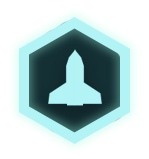
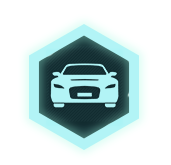
adding vehicle select screen

diff --git a/ts/GameObjects/Interactable/Paralax/UI/VehicleSelect.ts b/ts/GameObjects/Interactable/Paralax/UI/VehicleSelect.ts
@@ -1,0 +1,137 @@
+import 'phaser-ce';
+
+//import Atlases from '../../../../Data/Atlases';
+import ImageButton from './ImageButton';
+import Atlases from '../../../../Data/Atlases';
+import AtlasImages from '../../../../Data/AtlasImages';
+import SaveData from '../../../../BackEnd/SaveData';
+import Constants from '../../../../Data/Constants';
+
+export default class VehicleSelect extends Phaser.Group
+{
+    private background: Phaser.Sprite;
+    private vehicleSelectGroup: Phaser.Group;
+    private closeButton: ImageButton;
+    private headerText: Phaser.BitmapText;
+
+    //text
+    private carText: Phaser.BitmapText;
+    private descriptionText: Phaser.BitmapText;
+
+    //backdrops
+    private middleBackdrop: Phaser.Sprite;
+    private leftBackdrop: Phaser.Sprite;
+    private rightBackdrop: Phaser.Sprite;
+
+    //arrows
+    private leftArrow: ImageButton;
+    private rightArrow: ImageButton;
+
+    //car sprites
+    private selectedCarSprite: Phaser.Sprite;
+    private leftCarSprite: Phaser.Sprite;
+    private rightCarSprite: Phaser.Sprite;
+
+    private carIndex: number = 0;
+
+    constructor(game: Phaser.Game, callback: Function)
+    {
+        super(game);
+
+        this.background = new Phaser.Sprite(game, 0, 0, Atlases.Interface, 'UserInterface_Credits_Background');
+        this.background.anchor.set(.5);
+
+        this.closeButton = new ImageButton(this.game, -228, 475, AtlasImages.Exit_Button, 'UserInterface_Menu_ContinueButton', () => {
+            callback();
+        }, this);
+        this.closeButton.scale.x = -1;
+
+        this.headerText =  new Phaser.BitmapText(game, 0, -510, 'myfont', 'VEHICLE SELECT', 60);
+        this.headerText.tint = 0xffffff;
+        this.headerText.anchor.set(.5);
+        this.addChild(this.headerText);
+
+        this.carText =  new Phaser.BitmapText(game, 0, -280, 'myfont', 'car text', 50);
+        this.carText.tint = 0xffffff;
+        this.carText.anchor.set(.5);
+        this.addChild(this.carText);
+
+        this.descriptionText =  new Phaser.BitmapText(game, 0, -200, 'myfont', 'description text', 30);
+        this.descriptionText.tint = 0xffffff;
+        this.descriptionText.align = 'center';
+        this.descriptionText.anchor.set(.5);
+        this.addChild(this.descriptionText);
+
+        this.vehicleSelectGroup = new Phaser.Group(game);
+        this.vehicleSelectGroup.x = 10;
+        this.vehicleSelectGroup.y = 100;
+
+        this.middleBackdrop = new Phaser.Sprite(game, 0, 0, Atlases.Interface, 'ui_middle_hexagon');
+        this.middleBackdrop.anchor.set(.5);
+        this.leftBackdrop = new Phaser.Sprite(game, -200, 85, Atlases.Interface, 'hexagon_small_left');
+        this.leftBackdrop.anchor.set(.5);
+        this.rightBackdrop = new Phaser.Sprite(game, 200, 85, Atlases.Interface, 'hexagon_small_right');
+        this.rightBackdrop.anchor.set(.5);
+
+        this.selectedCarSprite = new Phaser.Sprite(game, -23, -70, Atlases.Interface, 'Spacecraft_Main');
+        this.selectedCarSprite.anchor.set(.5);
+        this.selectedCarSprite.scale.set(1.5);
+
+        this.leftCarSprite = new Phaser.Sprite(game, -225, 70, Atlases.Interface, 'Spacecraft_Main');
+        this.leftCarSprite.anchor.set(.5);
+        this.leftCarSprite.tint = 0x222222;
+
+        this.rightCarSprite = new Phaser.Sprite(game, 185, 70, Atlases.Interface, 'Spacecraft_Main');
+        this.rightCarSprite.anchor.set(.5);
+        this.rightCarSprite.tint = 0x222222;
+
+        this.leftArrow = new ImageButton(game, -250, -70, 'ui_pijltje',  'ui_pijltje', () => {
+            this.moveVehicleTo(false);
+        }, this);
+        this.leftArrow.anchor.set(.5);
+
+        this.rightArrow = new ImageButton(game, 220, -70, 'ui_pijltje', 'ui_pijltje', () => {
+            this.moveVehicleTo(true);
+        }, this);
+        this.rightArrow.anchor.set(.5);
+        this.rightArrow.scale.x = -1;
+
+        this.addChild(this.background);
+        this.addChild(this.closeButton);
+        this.addChild(this.headerText);
+        this.addChild(this.carText);
+        this.addChild(this.descriptionText);
+        this.addChild(this.vehicleSelectGroup);
+
+        this.vehicleSelectGroup.addChild(this.leftBackdrop);
+        this.vehicleSelectGroup.addChild(this.leftCarSprite);
+
+        this.vehicleSelectGroup.addChild(this.rightBackdrop);
+        this.vehicleSelectGroup.addChild(this.rightCarSprite);
+
+        this.vehicleSelectGroup.addChild(this.middleBackdrop);
+        this.vehicleSelectGroup.addChild(this.selectedCarSprite);
+        this.vehicleSelectGroup.addChild(this.leftArrow);
+        this.vehicleSelectGroup.addChild(this.rightArrow);
+
+        this.vehicleSelectGroup.scale.set(.85);
+
+        this.carIndex = SaveData.SelectedCar;
+        this.updateSrites();
+
+    }
+    private moveVehicleTo(left: boolean): void {
+        this.carIndex = (this.carIndex + (left ? -1 : 1) + Constants.CARS.length) % Constants.CARS.length;
+        SaveData.SelectedCar = this.carIndex;
+        this.updateSrites();
+    }
+    private updateSrites(): void {
+        this.selectedCarSprite.frameName = Constants.CARS[this.carIndex].spriteKey;
+        this.leftCarSprite.frameName = Constants.CARS[(this.carIndex + 1 + Constants.CARS.length) % Constants.CARS.length].spriteKey;
+        this.rightCarSprite.frameName = Constants.CARS[(this.carIndex - 1 + Constants.CARS.length) % Constants.CARS.length].spriteKey;
+
+        this.carText.text = '' + Constants.CARS[this.carIndex].carName;
+        this.descriptionText.text = '' + Constants.CARS[this.carIndex].description;
+    }
+
+}

diff --git a/ts/States/Menu.ts b/ts/States/Menu.ts
@@ -9,6 +9,7 @@ import AtlasImages from '../Data/AtlasImages';
 import CreditsScreen from '../GameObjects/Interactable/Paralax/UI/CreditsScreen';
 import Sounds from '../Data/Sounds';
 import SoundManager from '../Systems/Sound/SoundManager';
+import VehicleSelect from '../GameObjects/Interactable/Paralax/UI/VehicleSelect';
 
 export default class Menu extends Phaser.State
 {
@@ -23,6 +24,7 @@ export default class Menu extends Phaser.State
     private _settingGroup: SettingPopup;
     private _levelSelect: LevelSelect;
     private _creditsScreen: CreditsScreen;
+    private _vehicleSelect: VehicleSelect;
 
     private _worldEmitter: Phaser.Particles.Arcade.Emitter;
 
@@ -43,7 +45,7 @@ export default class Menu extends Phaser.State
 
         SoundManager.getInstance().play(Sounds.UI_MENU_MUSIC , 1, true);
 
-        this._backgroundSprite = this.game.add.sprite(0, 0, Atlases.Interface, 'UserInterface_Menu_Background');
+        this._backgroundSprite = this.game.add.sprite(0, 0, Atlases.Interface, 'bg');
 
         this._worldEmitter = this.createWorldEmitter();
         this.add.existing(this._worldEmitter);
@@ -66,6 +68,13 @@ export default class Menu extends Phaser.State
             this.DisplayObject(this._mainButtonsGroup);
         });
         this.game.add.existing(this._creditsScreen);
+
+        this._vehicleSelect = new VehicleSelect(this.game, () => {
+            this.DisplayObject(this._mainButtonsGroup);
+        });
+        this.game.add.existing(this._vehicleSelect);
+
+        this.DisplayObject(this._mainButtonsGroup);
 
         this.resize();
     }
@@ -94,14 +103,14 @@ export default class Menu extends Phaser.State
         group.addChild(creditsButton);
 
         let characterButton: TextButton = new TextButton(this.game, -200, 70, '', 40, 'UserInterface_Menu_CharacterSelect', () => {
-            console.log('show character selection');
+            this.DisplayObject(this._vehicleSelect);
         }, this);
         group.addChild(characterButton);
 
-        let continueButton: TextButton = new TextButton(this.game, 200, 70, '', 40, 'UserInterface_Menu_ContinueButton', () => {
-            console.log('continue session');
+        let hexButton: TextButton = new TextButton(this.game, 200, 70, '', 40, 'UserInterface_Menu_HexButton', () => {
+            console.log('show hex');
         }, this);
-        group.addChild(continueButton);
+        group.addChild(hexButton);
 
         return group;
     }
@@ -116,11 +125,14 @@ export default class Menu extends Phaser.State
         this._mainButtonsGroup.position.set(this.game.width / 2, this.game.height / 2);
         this._mainButtonsGroup.scale.set(vmin / GAME_WIDTH);
 
-        this._settingGroup.position.set(this.game.width / 2, this.game.height * .6);
+        this._settingGroup.position.set(this.game.width / 2, this.game.height * .5);
         this._settingGroup.scale.set(vmin / GAME_WIDTH);
 
         this._levelSelect.position.set(this.game.width / 2, this.game.height * 0.1);
         this._levelSelect.scale.set(vmin / GAME_WIDTH);
+
+        this._vehicleSelect.position.set(this.game.width / 2, this.game.height / 2);
+        this._vehicleSelect.scale.set(vmin / GAME_WIDTH);
 
         this._logoSprite.position.set(this.game.width / 2, this.game.height * 0.25);
         this._logoSprite.scale.set(vmin / GAME_WIDTH);
@@ -139,6 +151,7 @@ export default class Menu extends Phaser.State
         this._logoSprite.visible = false;
         this._levelSelect.visible = false;
         this._creditsScreen.visible = false;
+        this._vehicleSelect.visible = false;
 
         object.visible = true;
         if (object === this._mainButtonsGroup) {
@@ -184,6 +197,9 @@ export default class Menu extends Phaser.State
 
         this._settingGroup.destroy();
         this._settingGroup = null;
+
+        this._vehicleSelect.destroy();
+        this._vehicleSelect = null;
 
         this._worldEmitter.destroy();
         this._worldEmitter = null;

diff --git a/ts/BackEnd/SaveData.ts b/ts/BackEnd/SaveData.ts
@@ -10,6 +10,8 @@ interface ISaveData
     mm: boolean; //music
     q: number; //quality
     lvls: ILevelData[]; //array of leveldata
+    /** SelectedCarIndex */
+    scar: number;
 }
 interface ILevelData
 {
@@ -34,7 +36,8 @@ export default class SaveData
             sfx_vol: 1,
             mm: false,
             q: 1,
-            lvls: this.emplyLevelData()
+            lvls: this.emplyLevelData(),
+            scar: 0
         };
 
     }
@@ -102,6 +105,19 @@ export default class SaveData
     public static get Quality(): number
     {
         return this.data.q;
+    }
+
+    /** Save the quality in cache */
+    public static set SelectedCar(value: number)
+    {
+        let newData: ISaveData = this.data;
+        newData.scar = value;
+
+        this.data = newData;
+    }
+    public static get SelectedCar(): number
+    {
+        return this.data.scar;
     }
 
     /** Save the quality in cache */

diff --git a/ts/Data/Constants.ts b/ts/Data/Constants.ts
@@ -48,6 +48,24 @@ export default class Constants
         }
     ];
 
+    public static CARS: {carName: String, spriteKey: string, description: string}[] = [
+        {
+            carName: 'D1-A8L0',
+            spriteKey: 'Spacecraft_Main',
+            description: 'Lexus model, number original.'
+        },
+        {
+            carName: 'Neon Drifter',
+            spriteKey: 'InGame_Vehicle_Variation_02',
+            description: 'Drift like the fastest tornados\n in Hexagonia!'
+        },
+        {
+            carName: 'Some other fast car',
+            spriteKey: 'Spacecraft_Main_Blink',
+            description: 'yeah... Im not really\n original... ;)'
+        }
+    ];
+
     /** All the phases saved in a Phase array */
     public static readonly PHASES: IGamePhase[] = [
         {

diff --git a/ts/GameObjects/Interactable/Paralax/UI/CreditsScreen.ts b/ts/GameObjects/Interactable/Paralax/UI/CreditsScreen.ts
@@ -36,7 +36,7 @@ export default class CreditsScreen extends Phaser.Group
         this.creditsText.text = 'Art Director\n Bo Schutte\n\nDigital Artists\n Jidske Donkersloot\n Amber Kalverboer\n Amber Huiskes\n Eva Vrieze\n\nProgramming Director' +
         '\n Ferry Elbagdadi\n\nProgramming\n Sebastiaan Buwalda\n Nathan Nieuwenhuizen\n David Zwitser';
 
-        this.backButton = new ImageButton(this.game, -228, 445, AtlasImages.Exit_Button, 'UserInterface_Menu_ContinueButton', () => {
+        this.backButton = new ImageButton(this.game, -228, 475, AtlasImages.Exit_Button, 'UserInterface_Menu_ContinueButton', () => {
             callback();
         }, this);
         this.backButton.scale.x = -1;

diff --git a/ts/Data/AtlasImages.ts b/ts/Data/AtlasImages.ts
@@ -22,7 +22,7 @@ export default class AtlasImages
     public static Credits_Screen: string = 'ui_credits_screen';
 
     //main menu
-    public static Background: string = 'UserInterface_Menu_Background';
+    public static Background: string = 'bg';
     public static MainMenu_Overlay: string = 'background_overlay';
     public static Menu_Button: string = 'button_menu';
     public static Logo: string = 'logo';

diff --git a/ts/States/Gameplay.ts b/ts/States/Gameplay.ts
@@ -67,7 +67,7 @@ export default class Gameplay extends Phaser.State
     private _hideScoreBar: boolean = false;
     private _useContinuesInput: boolean = true;
 
-    private setToggealableOptions(): void
+    public setToggealableOptions(): void
     {
         /** Move the player back a bit */
         Constants.PLAYER_Z_POSITION = 1.1;
